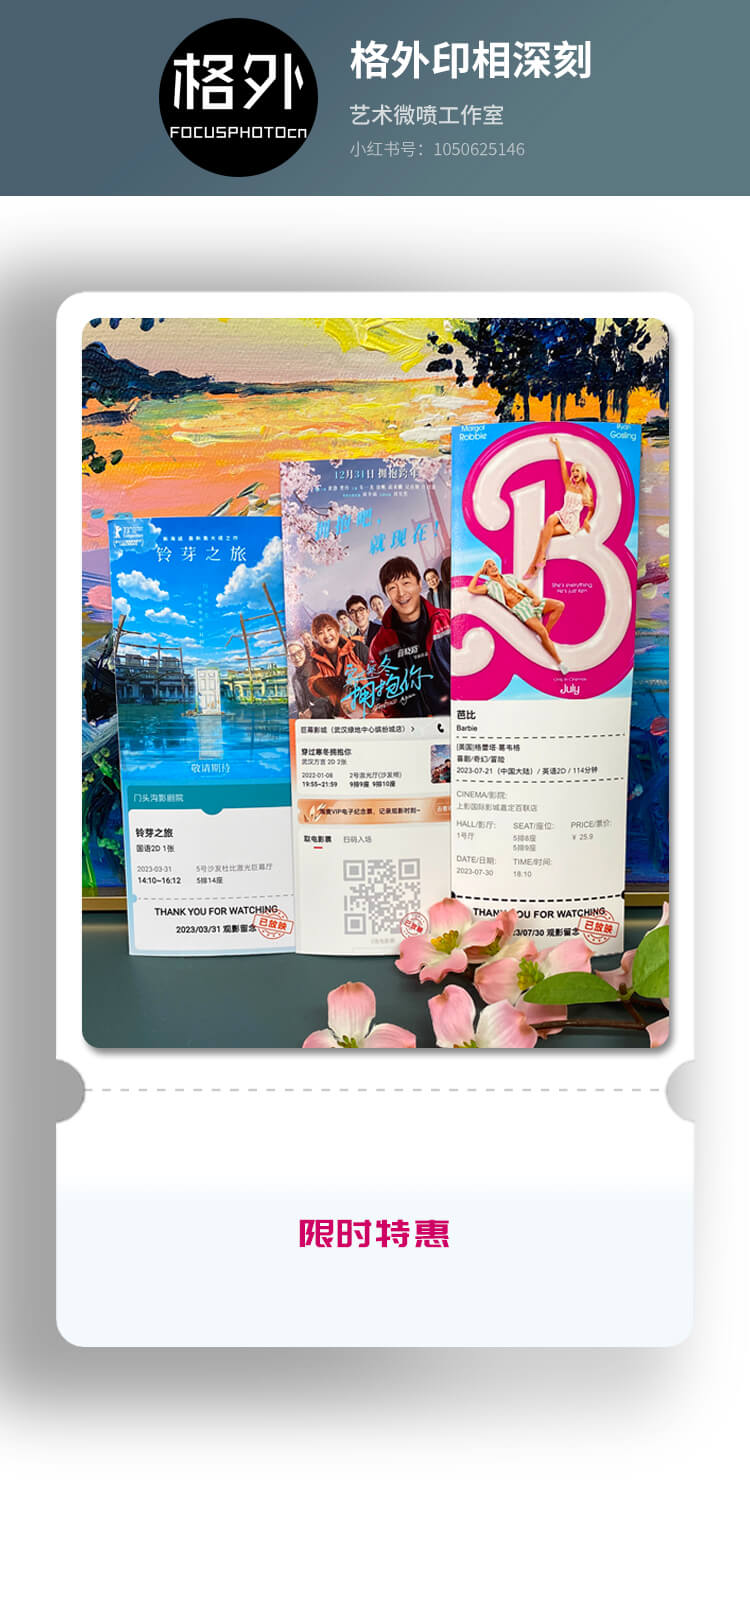
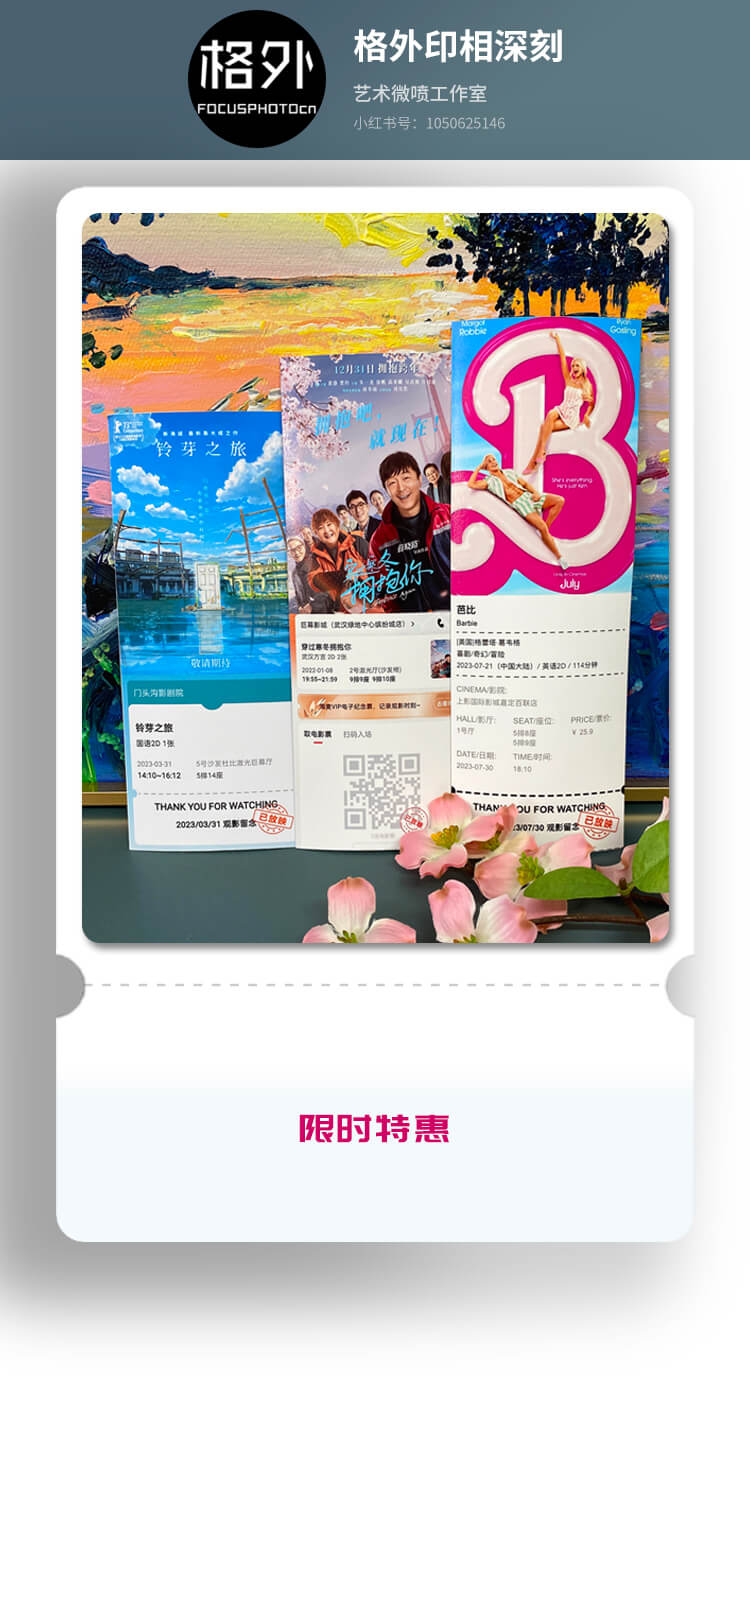
优化界面

diff --git a/pages/index/index.vue b/pages/index/index.vue
@@ -1,7 +1,7 @@
 <template>
 	<view class="index-contaioner">
 		<image class="banner-img" src="../../static/banner.jpg" mode="widthFix"></image>
-
+		<image src="../../static/copy.png" class="copy-img" @click="copyUrl('')"></image>
 		<view class="shop-btn-area">
 			<view class="shop-btn" @click="copyUrl('xhs')">
 				<image src="../../static/click.png"></image>
@@ -19,7 +19,7 @@
 			</view>
 		</view>
 		<view class="words">
-			2023年8月18日前下单，参与小红书或料音的“关注+3连”活动，享满10张赠2张优惠。
+			2023年8月18日前下单，参与小红书或抖音的“关注+3连”活动，享满10张赠2张优惠。
 		</view>
 		<view class="tips" @click="showDialog()">
 			<text>如有疑问请联系作者，wx: </text>
@@ -59,7 +59,7 @@
 			copyUrl(type) {
 				if (type === 'xhs') {
 					uni.setClipboardData({
-						data: 'https://www.xiaohongshu.com/vendor/642a85e7d485a10001abd530?naviHidden=yes&xhsshare=CopyLink&appuid=59d2439d20e88f35cbe72680&apptime=1691569280',
+						data: 'https://www.xiaohongshu.com/goods-detail/642cd3d1c299b4000165373f?xhsshare=CopyLink&appuid=5fa638fd00000000010009c6&apptime=1691573651',
 						success: function() {
 							uni.showToast({
 								title: '链接复制成功！请打开浏览器粘贴网址访问小红书店铺~',
@@ -67,12 +67,22 @@
 							})
 						}
 					})
-				} else {
+				} else if(type==='tb'){
 					uni.setClipboardData({
-						data: '57！对到为出这心们时了天起信 https://m.tb.cn/h.5XRrfJQ  CZ0001 我分享给你了一个超赞的内容，快来看看吧',
+						data: '【淘宝】https://m.tb.cn/h.521O4Dj?tk=GvygdEjQjVh CZ3457 「收藏级别的电影票| 小红书网红定制电影票根保存电影票影迷书签」',
 						success: function() {
 							uni.showToast({
 								title: '复制链接成功！请打开淘宝访问店铺~',
+								icon: 'none'
+							})
+						}
+					})
+				} else{
+					uni.setClipboardData({
+						data: '1050625146',
+						success: function() {
+							uni.showToast({
+								title: '小红书ID复制成功~',
 								icon: 'none'
 							})
 						}
@@ -83,6 +93,7 @@
 				this.$refs.wxDialog.open()
 			},
 			makeTicket(id) {
+				console.log(id)
 				uni.navigateTo({
 					url: `/subPages/ticket/ticket?id=${id}`
 				});
@@ -95,18 +106,25 @@
 	.index-contaioner {
 		background-color: #fff;
 		position: relative;
-		padding-top: 10px;
 
 		.banner-img {
 			width: 100vw !important;
+			vertical-align: middle;
+		}
+		.copy-img{
+			position: absolute;
+			width: 30rpx;
+			height: 30rpx;
+			top: 110rpx;
+			right: 180rpx;
 		}
 
 		.words {
 			position: absolute;
-			top: 1190rpx;
+			top: 1155rpx;
 			width: 100%;
 			box-sizing: border-box;
-			padding: 90rpx;
+			padding:0 90rpx;
 			font-size: 24rpx;
 			text-align: center;
 			color: #8b9091;
@@ -116,7 +134,7 @@
 			box-sizing: border-box;
 			width: 100%;
 			position: absolute;
-			top: 1130rpx;
+			top: 1010rpx;
 			padding: 0 110rpx;
 			display: flex;
 			justify-content: space-between;
@@ -155,7 +173,7 @@
 			box-sizing: border-box;
 			width: 100%;
 			position: absolute;
-			top: 1400rpx;
+			top: 1280rpx;
 			padding: 0 30px;
 			display: flex;
 			justify-content: space-between;

diff --git a/pages/picture/picture.vue b/pages/picture/picture.vue
@@ -1,9 +1,10 @@
 <template>
 	<view class="picture">
-		<div class="wrap" v-if="ticketUrl">
+		<view class="tips">长按票根，保存图片至本地相册</view>
+		<view class="wrap" v-if="ticketUrl">
 			<image :src="ticketUrl" mode="widthFix" show-menu-by-longpress></image>
-		</div>
-		<div class="tips">长按票根，保存图片至本地相册</div>
+		</view>
+		<view class="download" v-if="ticketUrl" @click="downloadTicket">下载图片</view>
 	</view>
 </template>
 
@@ -15,6 +16,17 @@
 			}
 		},
 		methods: {
+			downloadTicket() {
+				uni.saveImageToPhotosAlbum({
+					filePath: this.ticketUrl,
+					success: function() {
+						uni.showToast({
+							title: '图片下载成功',
+							icon: 'none'
+						})
+					}
+				})
+			}
 		},
 		onLoad() {
 			this.ticketUrl = uni.getStorageSync('ticket_url') || '';
@@ -27,7 +39,6 @@
 		.wrap {
 			width: 100%;
 			display: flex;
-			margin: 20px auto;
 			justify-content: center;
 
 			image {
@@ -36,9 +47,20 @@
 		}
 
 		.tips {
-			padding-bottom: 40px;
+			font-size: 14px;
+			padding: 10px 0;
 			text-align: center;
-			color: #f6cb75;
+			color: #465a6c;
+		}
+
+		.download {
+			text-align: center;
+			width: 100px;
+			margin: 0 auto;
+			font-size: 14px;
+			color: #00acff;
+			padding: 5px;
+			padding-bottom: 20px;
 		}
 	}
 </style>

diff --git a/subPages/ticket/ticket.vue b/subPages/ticket/ticket.vue
@@ -9,10 +9,10 @@
 		<template v-if="currentTemplate">
 			<view class="btn-area">
 				<button type="primary" @click="createTicket">生成票根</button>
-				<button @click="refresh">刷 新</button>
+				<!-- <button @click="refresh">刷 新</button> -->
 				<button @click="editTicket">编辑票根</button>
 			</view>
-			<view class="tips">票根如果出现排版错位，请点击刷新按钮</view>
+			<view class="tips">点击编辑票根</view>
 		</template>
 		<uni-popup ref="alertDialog" type="dialog">
 			<uni-popup-dialog type="info" cancelText="取消" confirmText="同意" title="告知" content="此小程序仅供娱乐,不可商用!不可用作非法途径!"

diff --git a/subPages/ticket/cmp/FormC/FormC.vue b/subPages/ticket/cmp/FormC/FormC.vue
@@ -149,7 +149,7 @@
 				this.$refs['drawer'].close()
 			},
 			getDeviceWidth() {
-				return uni.getSystemInfoSync().windowWidth * 0.9
+				return uni.getSystemInfoSync().windowWidth
 			}
 		},
 		mounted() {

diff --git a/subPages/ticket/cmp/CommonForm/CommonForm.vue b/subPages/ticket/cmp/CommonForm/CommonForm.vue
@@ -249,7 +249,7 @@
 				this.$refs['drawer'].close()
 			},
 			getDeviceWidth(){
-				return uni.getSystemInfoSync().windowWidth * 0.9
+				return uni.getSystemInfoSync().windowWidth
 			}
 		},
 		created() {
